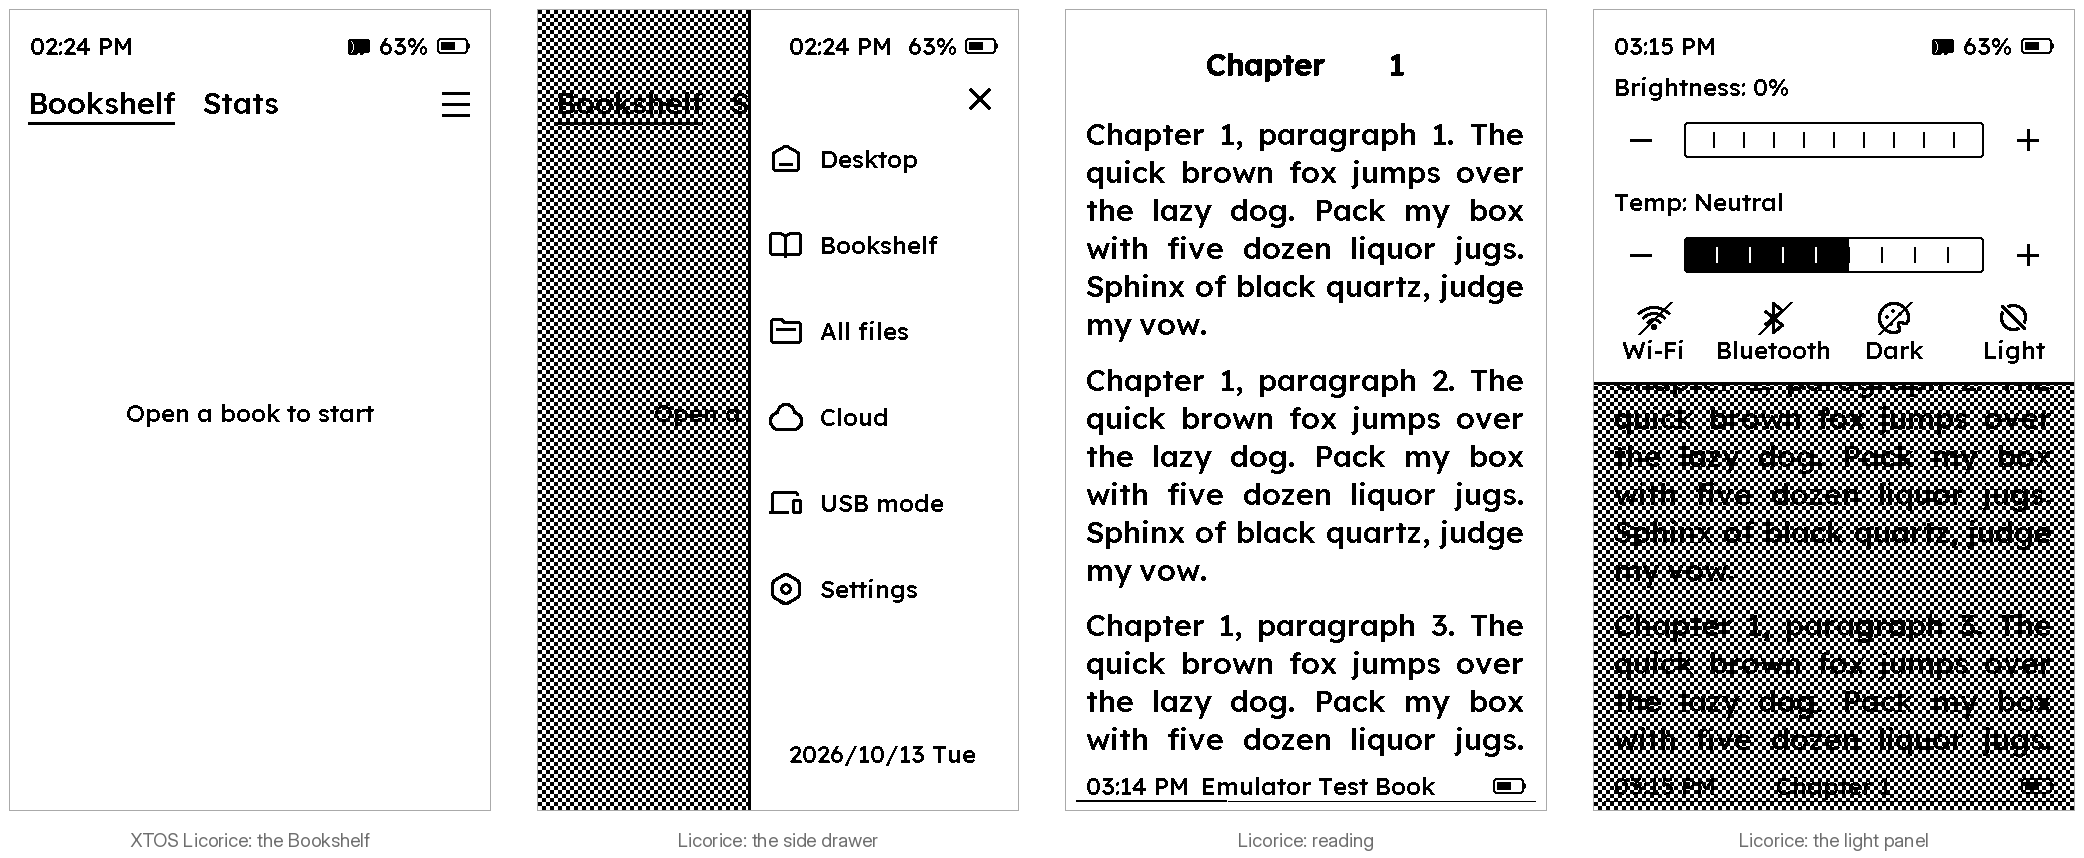
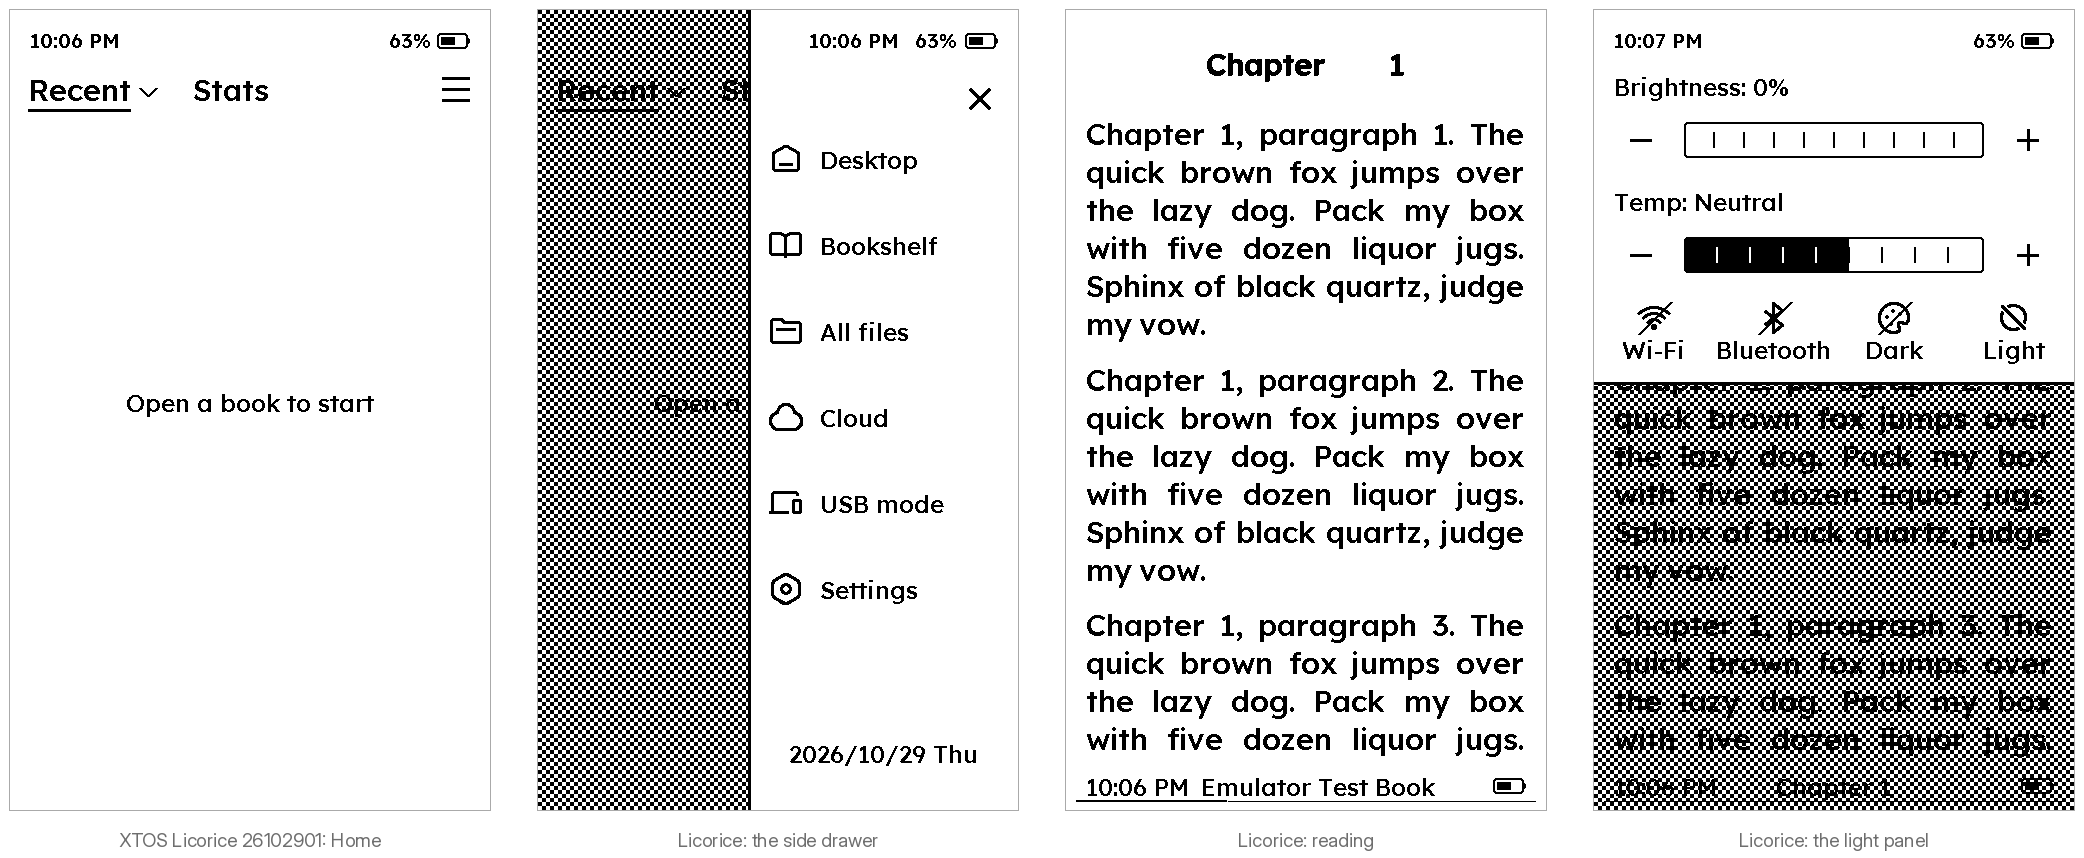
Licorice 26102901: its new features walked in the emulator; the README picture shows 26102901
Startup passcode, collections, StarDict dictionary lookup and the phone-pairing screen work in the
emulator (by hand, docs/stock-licorice.md). The owner closed the by-eye check of the 26102901 screens.

diff --git a/tools/readme_images.py b/tools/readme_images.py
@@ -10,8 +10,9 @@ Every picture is something a test already pins, so the README shows what the emu
                  panel; test_device_screenshot.py sets the battery to the device's and holds the two
                  at 0 differing pixels (the golden shown here is at the default 63 %)
   plates.png     the gamebook's eight plates, as tools/gamebook.py renders them
-  licorice.png   XTOS Licorice, the stock's rewrite: its Bookshelf, the side drawer, a book page and
-                 the light panel (tests/golden/licorice-*, pinned by tests/test_licorice.py)
+  licorice.png   XTOS Licorice 26102901, the stock's rewrite as the device runs it: its Home (Recent), the
+                 side drawer, a book page and the light panel (tests/golden/licorice-v26102901-*,
+                 pinned by tests/test_licorice.py)
 Run it after a golden or a plate changes; captions use Inter (fonts/inter/, OFL, fetched locally per
 fonts/README.md) and fall back to PIL's default font.
 """
@@ -105,10 +106,10 @@ def plates():
 
 
 def licorice():
-    cells = [(framed(upright('licorice-home.png')), 'XTOS Licorice: the Bookshelf'),
-             (framed(upright('licorice-drawer.png')), 'Licorice: the side drawer'),
-             (framed(upright('licorice-reader.png')), 'Licorice: reading'),
-             (framed(upright('licorice-light.png')), 'Licorice: the light panel')]
+    cells = [(framed(upright('licorice-v26102901-home.png')), 'XTOS Licorice 26102901: Home'),
+             (framed(upright('licorice-v26102901-drawer.png')), 'Licorice: the side drawer'),
+             (framed(upright('licorice-v26102901-reader.png')), 'Licorice: reading'),
+             (framed(upright('licorice-v26102901-light.png')), 'Licorice: the light panel')]
     return grid(cells, 4)
 
 

diff --git a/docs/stock-licorice.md b/docs/stock-licorice.md
@@ -128,14 +128,28 @@ What the build changed, as the emulator shows it:
 |---|---|---|
 | Home | the **Bookshelf** tab | a **Recent ⌄** tab (a sort menu), "NEW" on an unread cover |
 | Frontlight at boot | LEDC set up, duty 0 | LEDC untouched until the light is first used |
-| Wake from deep sleep | resumes the last book | **Recent**, the book on top (not yet seen on the device) |
+| Wake from deep sleep | resumes the last book | **Recent**, the book on top |
 | Mini apps | "Mini Apps" | **"Ink App"** ("Install Ink App", "Leave this Ink App?"); the same package and unlock |
 | App API | `g.ttf_measure`, `ttf_text`, `ttf_text_box` | gone (`docs/licorice-apps.md`) |
 | App key | DROM 0x3c32c674 | the same key at DROM 0x3c3a4918 |
 
 New strings point at what else arrived: a startup passcode, collections, dictionaries, phone pairing, an
 Ink App lock, "Back to previous spot", and translations (about 16,000 new strings, a CA bundle among them).
-None of that is walked yet. The owner has not compared 26102901's emulator screens with the reader.
+The owner closed the by-eye check of 26102901's screens and of the wake to Recent (2026-10-29).
+
+The four headline features, walked by hand in the emulator on a redacted copy of the device's dump
+(2026-10-29; no test pins them yet):
+
+| Feature | Where | What the emulator does |
+|---|---|---|
+| Startup passcode | Settings → General → Startup passcode | a 4-digit keypad, "Enter passcode again", the row turns **On**; a wake from deep sleep and a cold boot both stop at "Enter passcode"; a wrong code shows "Wrong passcode", the right one opens Home. The digest is NVS `fw/boot_pin_fw` (`tools/nvsedit.py redact` erases it) |
+| Collections | Home → Recent ⌄ → Collections → New collection; hold a book → Add to collection | the on-screen keyboard names it ("Collection 1"), Home shows it ("Empty. Hold a book to add it here"); holding a cover gives Mark as finished / Add to collection / Delete book; adding shows "Added to Collection 1", "1 book" |
+| Dictionaries | Settings → Reading → Dictionary lookup | StarDict ZIPs (wikdict's downloads) in `/dictionaries/`; *Current dictionary* lists one ("Tap to import"), imports it ("Ready"); with lookup on long press, holding a word in the reader boxes it and opens a pop-up with its definition. Long press is the excerpts' gesture by default ("Already used for excerpts"), so lookup takes double tap unless excerpts are moved off it; the emulator's taps did not make a double tap (two GT911 touches about 120 ms each, held until read); the first page opened from a cached image did not answer a hold, the next page did |
+| Phone pairing | Settings → Account → Bind | "Bluetooth setup": Bluetooth and Wi-Fi come up, a QR code and the name `XTEPD_BLE_` + the MAC's last bytes + 2, "Waiting for phone"; no BLE traffic is modelled, so it waits (Cancel / Retry) |
+
+A dictionary for a test: a `.ifo` (`StarDict's dict ifo file`, `wordcount`, `idxfilesize`, `bookname`,
+`sametypesequence=m`), a `.idx` (word, NUL, big-endian offset and size) and a `.dict.dz` (dictzip: gzip with
+an `RA` chunk table) zipped flat; the firmware also takes a plain `.dict` and a `.syn`.
 
 ## What the stock tools make of it
 
@@ -164,9 +178,9 @@ package?", "Installed", "Install failed", "Cannot run yet", "Launch failed", "Un
 
 ## Open
 
-- 26102901 on the device: whether a wake really shows Recent rather than the book, and the owner's look at its
-  screens beside the reader; its new features (passcode, collections, dictionaries, phone pairing) are
-  not walked.
+- 26102901's new features have no test yet (the walk above was by hand); dictionary lookup by double tap
+  and on a first page opened from its cached image did not answer in the emulator; the Ink App lock and
+  "Back to previous spot" are not walked.
 - Mini apps beyond the code section: the assets / data / fonts sections are read but not yet built, and
   the >512 KB streamed code path is untested (`docs/licorice-apps.md` "Open").
 - USB mode beyond the device descriptor (SET_ADDRESS, configuration, the mass-storage traffic): no

diff --git a/README.md b/README.md
@@ -98,10 +98,10 @@ The models are checked against the desk unit, not just against datasheets:
 
 ## XTOS Licorice, the stock's new generation
 
-![XTOS Licorice 261013 in the emulator: its Bookshelf, the side drawer, a book page and the light panel](docs/images/licorice.png)
+![XTOS Licorice 26102901 in the emulator: its Home, the side drawer, a book page and the light panel](docs/images/licorice.png)
 
-<sub>Licorice 261013, the screens the owner compared with the reader by eye. The device's current build,
-26102901, has its own goldens (`tests/golden/licorice-v26102901-*.png`), not yet compared with the reader.</sub>
+<sub>Licorice 26102901, the device's build, as the emulator draws it; the owner compared the emulator's screens
+of both builds with the reader by eye (`tests/golden/licorice-*.png`).</sub>
 
 In October 2026 Xteink replaced the 7.x firmware with a rewrite, **XTOS Licorice**. The emulator runs it
 from the device's own dump: the Bookshelf, the side drawer, the Desktop, All files and the reader, the
@@ -109,7 +109,9 @@ side buttons, the front light, Dark mode, Wi-Fi and Bluetooth toggles, sleep and
 and USB mode (`tests/test_licorice.py`, `tests/test_usb_otg.py`). One panel-model fix was needed:
 Licorice scans the panel the other way up from every earlier firmware. Its signed mini-app packages
 install and run too (below). The build of 2026-10-29, **26102901** (a Recent tab on Home, "Ink App" for
-mini apps), ran with no model change; every Licorice test runs on both builds. What changed, what runs and
+mini apps), ran with no model change; every Licorice test runs on both builds. Its new startup passcode,
+collections, StarDict dictionary lookup and phone-pairing screen work in the emulator too (walked by hand;
+pairing waits for a phone, as no Bluetooth traffic is modelled). What changed, what runs and
 what is still open: [docs/stock-licorice.md](docs/stock-licorice.md).
 
 ## Lua apps and a gamebook

diff --git a/docs/log.md b/docs/log.md
@@ -1554,3 +1554,11 @@ advances).
 
 The efuses, re-read on 26102901 (`tools/device.py efuse-summary`), are byte for byte the committed dump: no flash
 encryption, no secure boot, `SECURE_VERSION` 0, so the update burned nothing.
+
+The owner closed the by-eye check of 26102901's screens and its wake to Recent. The README's Licorice picture
+now shows 26102901 (`tools/readme_images.py` reads `licorice-v26102901-*`; its Home is Recent, not the
+Bookshelf). The build's new features, walked by hand in the emulator: the startup passcode (set, asked at a
+wake and at a cold boot, a wrong code refused), collections (created with the on-screen keyboard, a book added
+from its hold menu), dictionaries (a hand-made StarDict ZIP in `/dictionaries/` imports, and a held word opens
+its definition; double tap and the first, cached page did not answer) and phone pairing (Bluetooth comes up,
+a QR code, "Waiting for phone"). `docs/stock-licorice.md` has the table; no test pins them yet.
